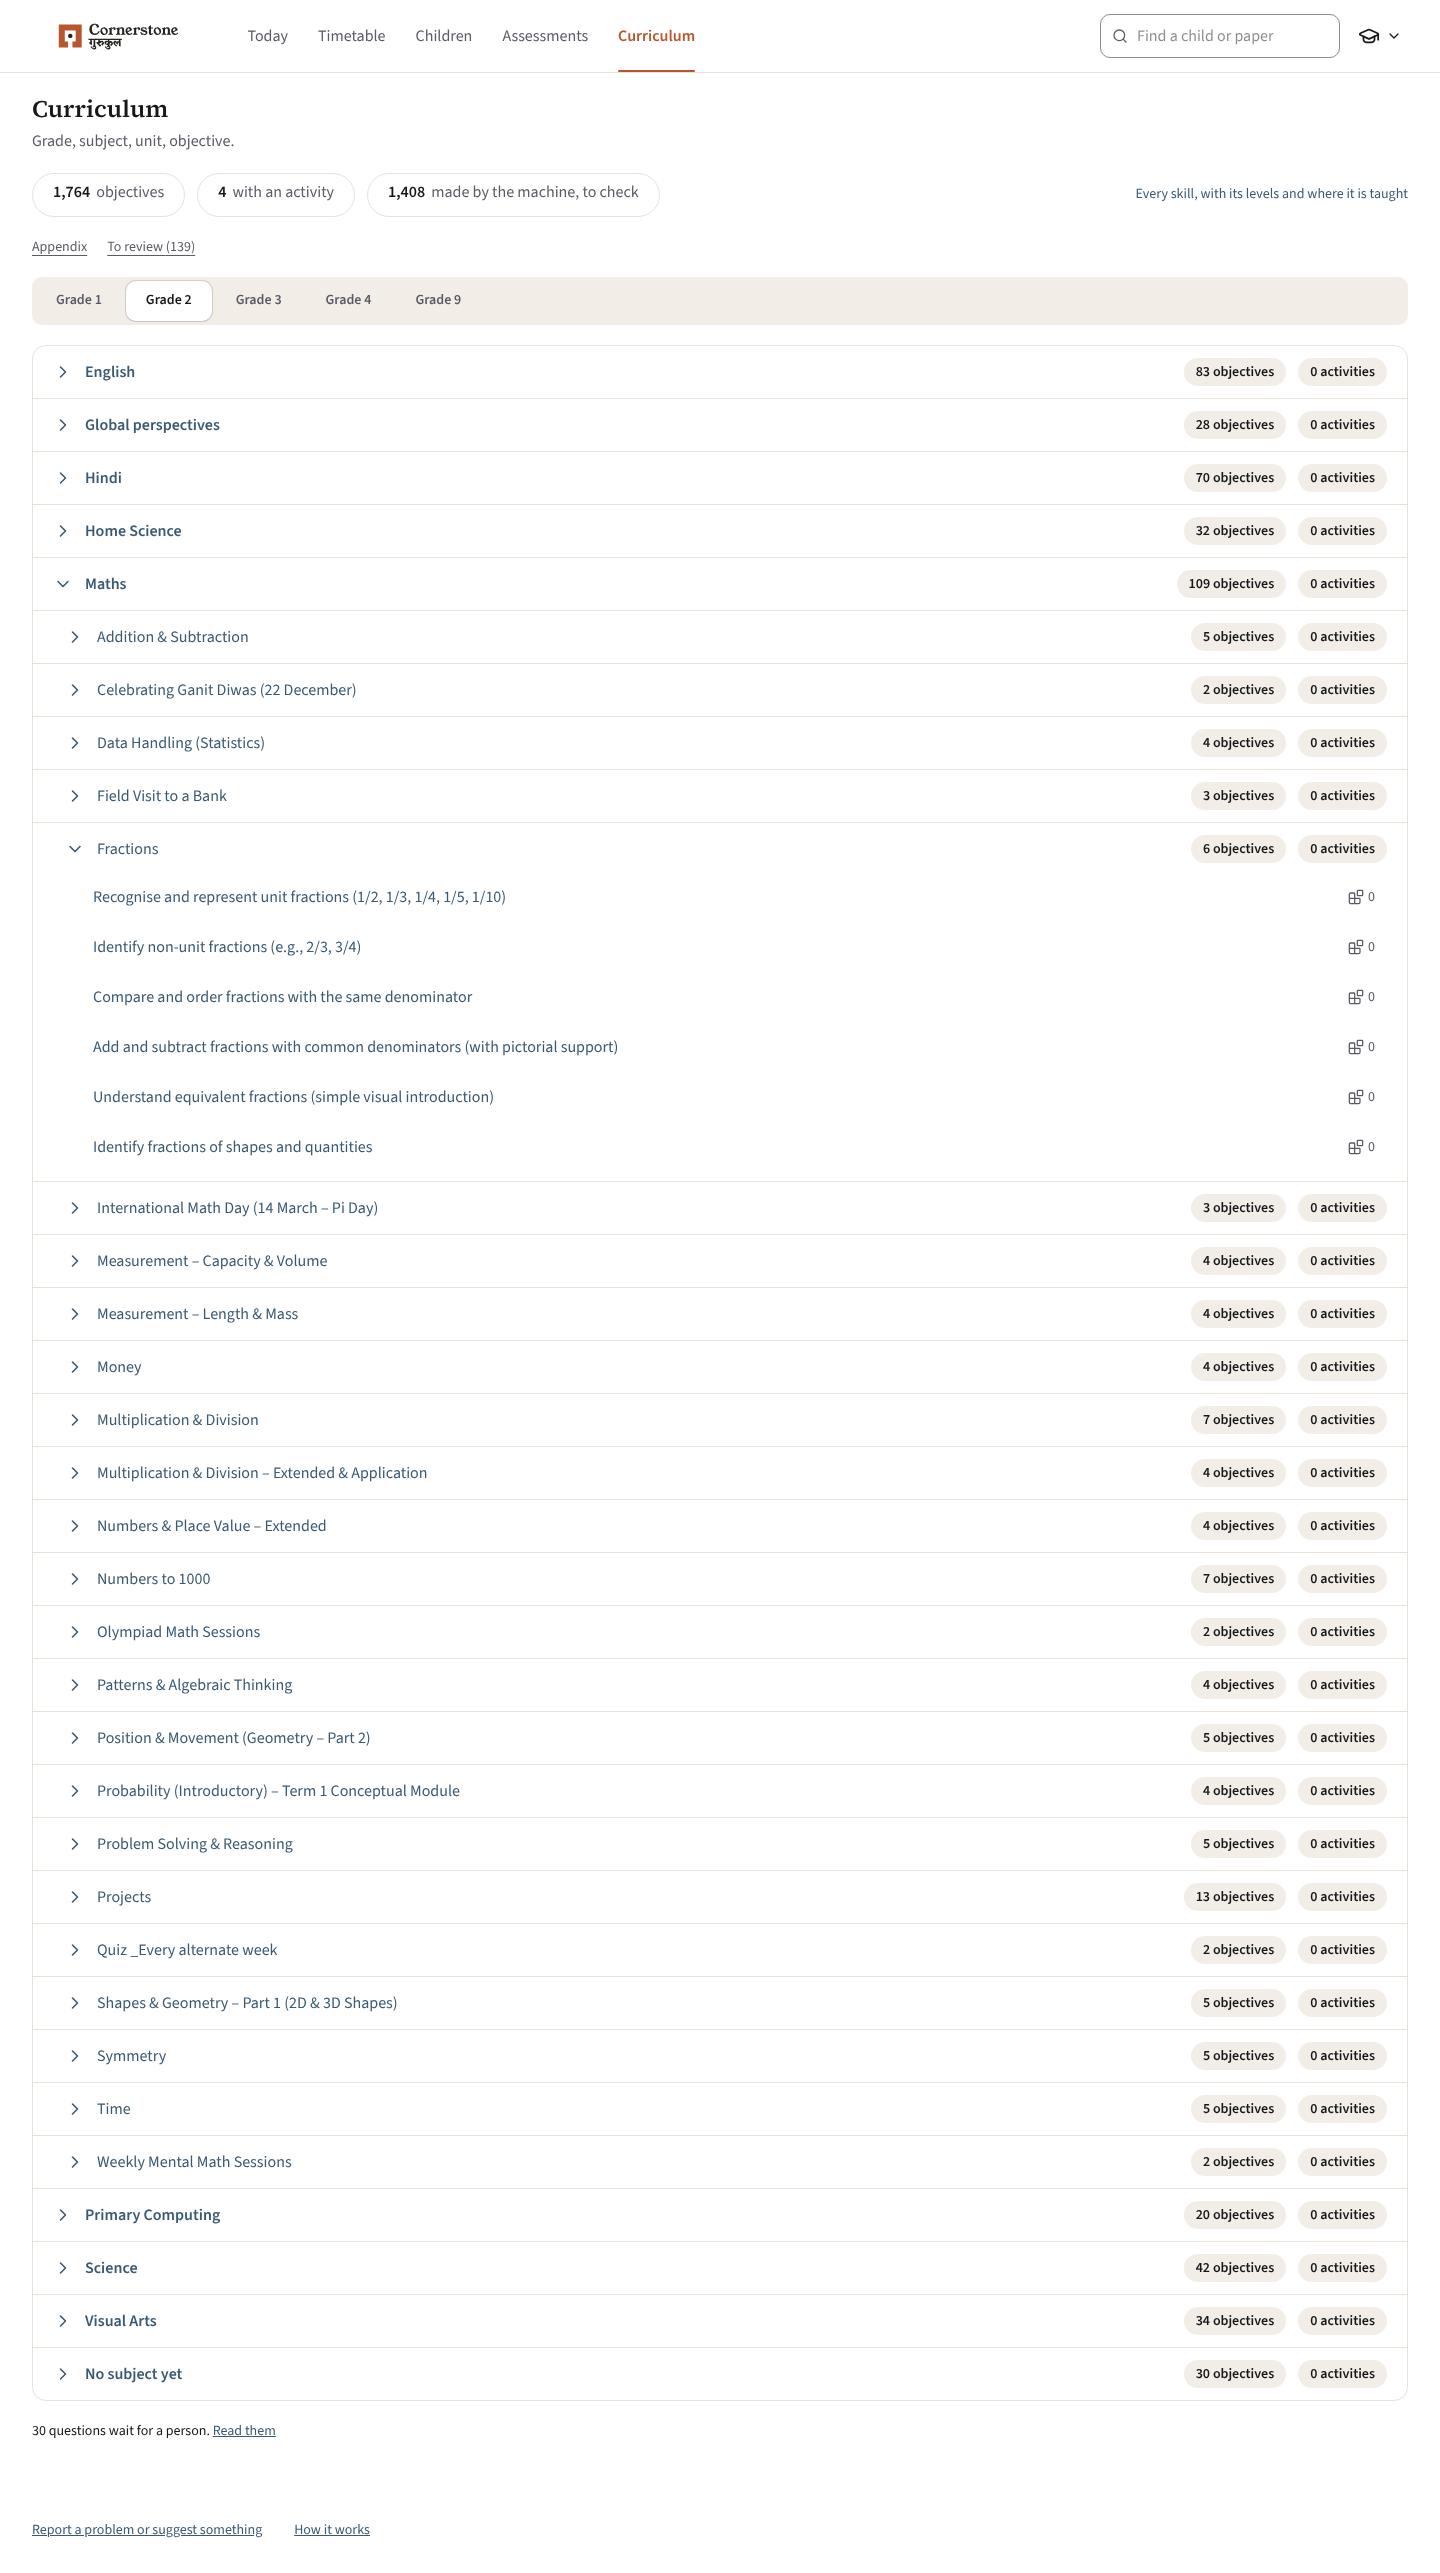
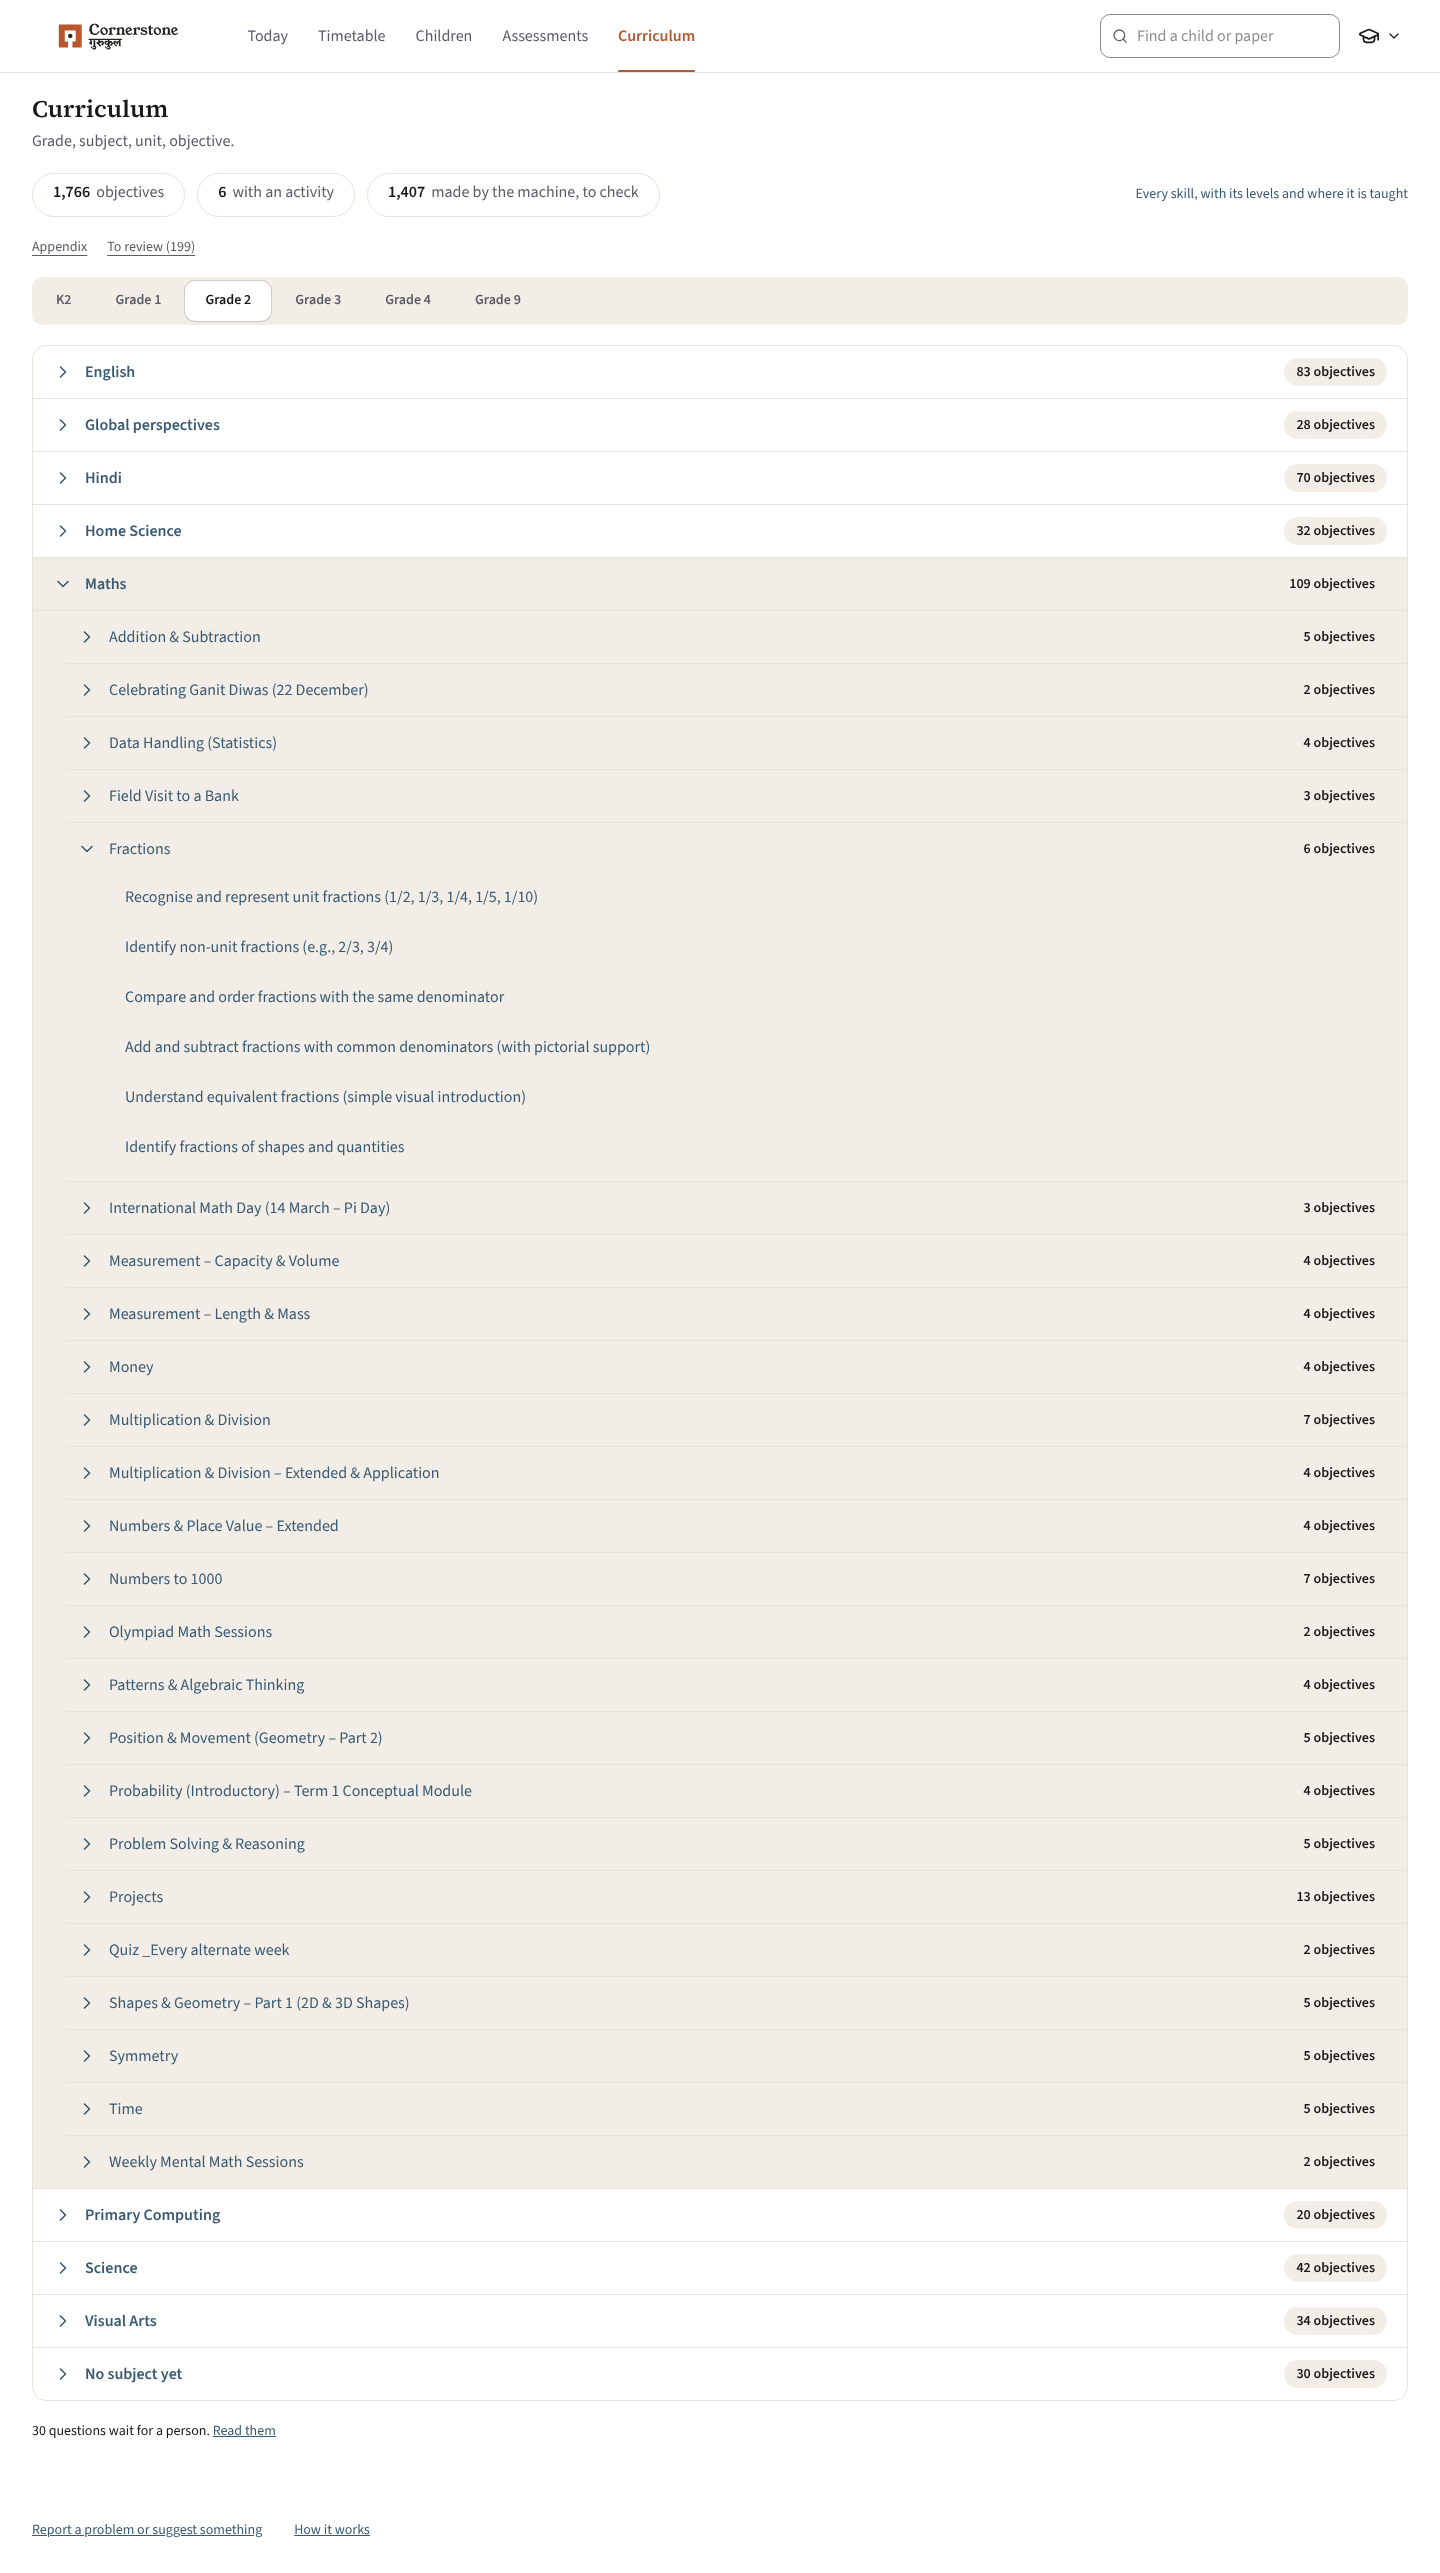
CP-67 review: no zero counts, an open subject's units read as its children, counts stay while a panel is open, the planning sheet named plainly
Claude-Session: https://claude.ai/code/session_01KEBF26Nq9MFfFMi97DJJLs

diff --git a/apps/web/app/(app)/setup/curriculum/tree.tsx b/apps/web/app/(app)/setup/curriculum/tree.tsx
@@ -18,7 +18,7 @@ function Counts({ objectives, activities }: { objectives: number; activities: nu
   return (
     <span className="ml-auto flex shrink-0 items-center gap-[var(--space-2)]">
       <span className="b-count" data-count="objectives" data-n={objectives} title="Objectives">{n(objectives)} {objectives === 1 ? "objective" : "objectives"}</span>
-      <span className="b-count b-muted max-sm:hidden" data-count="activities" title="Activities">{n(activities)} {activities === 1 ? "activity" : "activities"}</span>
+      {activities ? <span className="b-count b-muted max-sm:hidden" data-count="activities" title="Activities">{n(activities)} {activities === 1 ? "activity" : "activities"}</span> : null}
     </span>
   );
 }
@@ -30,6 +30,8 @@ function Chevron({ open }: { open: boolean }) {
     </span>
   );
 }
+
+// Zero is not shown: a row carries an activities count only when it has an activity.
 
 // Curriculum as one tree (CP-67, issue #827; Nimish 17 Nov 2026: "It can simply be thought of as an expand-collapse"): the grades as a
 // segmented control, then the grade's subjects, each opening to its units, each opening to its objectives. The open path is the address,
@@ -59,7 +61,7 @@ export async function Tree({ path, grades }: { path: Path; grades: { code: strin
           {subjects.map((s) => {
             const on = s.key === subject?.key;
             return (
-              <li key={s.key} data-subject-row={s.key}>
+              <li key={s.key} data-subject-row={s.key} className={on ? "bg-[var(--surface)]" : undefined}>
                 <Link
                   href={treeAt({ grade, subject: on ? undefined : s.key })}
                   scroll={false}
@@ -71,7 +73,7 @@ export async function Tree({ path, grades }: { path: Path; grades: { code: strin
                   <Counts objectives={s.objectives} activities={s.activities} />
                 </Link>
                 {on ? (
-                  <ul aria-label={`Units of ${s.name}`} className="divide-y divide-[var(--line)] border-t border-[var(--line)]">
+                  <ul aria-label={`Units of ${s.name}`} className="divide-y divide-[var(--line)] border-t border-[var(--line)] pl-[var(--space-4)]">
                     {s.units.map((u) => {
                       const uon = u.key === unit?.key;
                       return (
@@ -80,7 +82,7 @@ export async function Tree({ path, grades }: { path: Path; grades: { code: strin
                             href={treeAt({ grade, subject: s.key, unit: uon ? undefined : u.key })}
                             scroll={false}
                             aria-expanded={uon}
-                            className="flex min-h-[var(--tap)] items-center gap-[var(--space-2)] py-[var(--space-2)] pr-[var(--space-3)] pl-[var(--space-4)] no-underline"
+                            className="flex min-h-[var(--tap)] items-center gap-[var(--space-2)] py-[var(--space-2)] pr-[var(--space-3)] pl-[var(--space-2)] no-underline"
                           >
                             <Chevron open={uon} />
                             <span className="min-w-0 flex-1">{u.name}</span>
@@ -97,13 +99,15 @@ export async function Tree({ path, grades }: { path: Path; grades: { code: strin
                                       scroll={false}
                                       aria-current={path.open === key || undefined}
                                       data-objective-leaf={o.code}
-                                      className="flex min-h-[var(--tap)] items-center gap-[var(--space-2)] rounded-[var(--radius-control)] px-[var(--space-2)] py-[var(--space-1)] no-underline hover:bg-[var(--surface)] aria-[current]:bg-[var(--surface)] aria-[current]:font-semibold"
+                                      className="flex min-h-[var(--tap)] items-center gap-[var(--space-2)] rounded-[var(--radius-control)] px-[var(--space-2)] py-[var(--space-1)] no-underline hover:bg-[var(--panel)] aria-[current]:bg-[var(--panel)] aria-[current]:font-semibold"
                                     >
                                       <span className="min-w-0 flex-1">{o.title}</span>
-                                      <span className="b-muted b-num b-label inline-flex shrink-0 items-center gap-1" title="Activities">
-                                        <Icon name="activity" size={ICON_SIZE.table} />
-                                        {o.activities}
-                                      </span>
+                                      {o.activities ? (
+                                        <span className="b-muted b-num b-label inline-flex shrink-0 items-center gap-1" title="Activities">
+                                          <Icon name="activity" size={ICON_SIZE.table} />
+                                          {o.activities}
+                                        </span>
+                                      ) : null}
                                     </Link>
                                   </li>
                                 );

diff --git a/apps/web/app/(app)/setup/curriculum/page.tsx b/apps/web/app/(app)/setup/curriculum/page.tsx
@@ -1,6 +1,7 @@
 import Link from "@/components/link";
 import { DataTable } from "@/components/data-table";
 import { DetailPanel, parseOpen, type Opened } from "@/components/detail-panel";
+import { StatTiles } from "@/components/stat-tile";
 import { EmptyState } from "@/components/empty-state";
 import { FilterBar } from "@/components/filter-bar";
 import { KindTile } from "@/components/kind-tile";
@@ -262,7 +263,11 @@ export default async function Curriculum({ searchParams }: { searchParams: Promi
           )}
         </>
       ) : view === "flow" ? (
+        <>
+        {/* the page's counts stay in view while an objective is open (the panel's summary band shows them only when nothing is) */}
+        {panel ? <div className="mb-[var(--space-3)]"><StatTiles label="The curriculum" stats={stats} /></div> : null}
         <Tree path={{ grade: q.grade, subject: q.subject, unit: q.unit, open: q.open }} grades={school.list.map((g) => ({ code: g.code, name: g.name }))} />
+        </>
       ) : (
         <>
           <nav aria-label="Appendix" data-ux={sect === "list" ? undefined : "action"} className="mb-[var(--space-3)] flex flex-wrap gap-[var(--space-2)]">

diff --git a/apps/web/tests/u94-machine-origin.spec.ts b/apps/web/tests/u94-machine-origin.spec.ts
@@ -94,7 +94,7 @@ test("1 · Curriculum, an activity's page, the lesson panel and the timetable ma
 test("2 · each list filters by origin: sheet, machine or person", async ({ page }) => {
   await page.goto("/setup/curriculum?view=appendix&q=U94");
   const origin = page.locator("[data-block=FilterBar] label", { hasText: "Origin" }).locator("select");
-  await expect(origin.locator("option")).toHaveText(["Any origin", "Sheet", "Machine", "Person"]);
+  await expect(origin.locator("option")).toHaveText(["Any origin", "Planning sheet", "Machine", "Person"]);
   const rows = page.locator(`${LIST} tbody tr[data-row]`);
   await expect(rows).toHaveCount(3);
   for (const [o, has, not] of [["machine", MACHINE, PERSON], ["person", PERSON, MACHINE]] as const) {

diff --git a/apps/web/tests/m1-13c-page-part.spec.ts b/apps/web/tests/m1-13c-page-part.spec.ts
@@ -63,7 +63,7 @@ test.describe("drawn on a real page", () => {
     await expect(page.locator("[data-part=thinking] .pp-origin")).toContainText("Made by the machine");
     await expect(page.locator("[data-part=thinking] .pp-origin [data-machine]")).toHaveCount(1);
     // and the school's own words on the activity's page carry the sheet's origin
-    await expect(page.locator("[data-part=objective] .pp-origin")).toContainText("From the sheet");
+    await expect(page.locator("[data-part=objective] .pp-origin")).toContainText("From the planning sheet");
     await expect(page.locator("[data-part=steps] .pp-origin")).toContainText("Made by the machine");
     await expect(page.locator("[data-part=steps] .pp-steps li")).toHaveCount(2);
   });

diff --git a/apps/web/tests/m1-09-activity.spec.ts b/apps/web/tests/m1-09-activity.spec.ts
@@ -49,7 +49,7 @@ test("the page shows the school's words, the machine's steps as bullets and how 
   await page.goto(`/setup/activities/${CODE}`);
   await expect(page.getByRole("heading", { level: 1, name: "Insects" })).toBeVisible();
   const objective = page.locator('[data-part="objective"]');
-  await expect(objective.locator(".pp-origin")).toHaveText("From the sheet");
+  await expect(objective.locator(".pp-origin")).toHaveText("From the planning sheet");
   await expect(objective.locator("[data-answers]")).toHaveCount(1); // CP-53: the school's words too are edited in place by a reviewer
   const steps = page.locator('[data-part="steps"]');
   await expect(steps.locator(".pp-origin")).toHaveText("Made by the machine");

diff --git a/apps/web/lib/origin.ts b/apps/web/lib/origin.ts
@@ -6,7 +6,7 @@ export const ORIGINS = ["sheet", "machine", "person"] as const;
 export type Origin = (typeof ORIGINS)[number];
 
 /** The word a list's filter and a row's origin show. */
-export const ORIGIN_WORDS: Record<Origin, string> = { sheet: "Sheet", machine: "Machine", person: "Person" };
+export const ORIGIN_WORDS: Record<Origin, string> = { sheet: "Planning sheet", machine: "Machine", person: "Person" };
 
 const STORED: Record<string, Origin> = { school: "sheet", exact_name: "sheet", machine: "machine", drafted: "machine", model: "machine", person: "person" };
 

diff --git a/apps/web/components/page-part/part.tsx b/apps/web/components/page-part/part.tsx
@@ -10,7 +10,7 @@ import { MachineMark } from "../origin";
 // in as `actions`, or `editor` in place of the words (never both: the type says so), from the screen that knows who is asking.
 // A screen with neither shows the part read-only.
 const ORIGIN: Record<string, [IconName, string]> = {
-  school: ["from-school", "From the sheet"],
+  school: ["from-school", "From the planning sheet"],
   person: ["from-person", "A person's words"],
 };
 

diff --git a/apps/web/components/curriculum-panel.tsx b/apps/web/components/curriculum-panel.tsx
@@ -121,7 +121,7 @@ export function LinkList({ rows, href, data, link }: { rows: readonly Linked[]; 
             )}
             <MachineIf origin={[l.origin, l.own ?? null]} />
           </span>
-          <OriginLine origin={l.origin} of="Linked by" />
+          <OriginLine origin={l.origin} of="Source" />
           {l.own !== undefined ? <OriginLine origin={l.own} of="Made by" /> : null}
         </li>
       ))}
